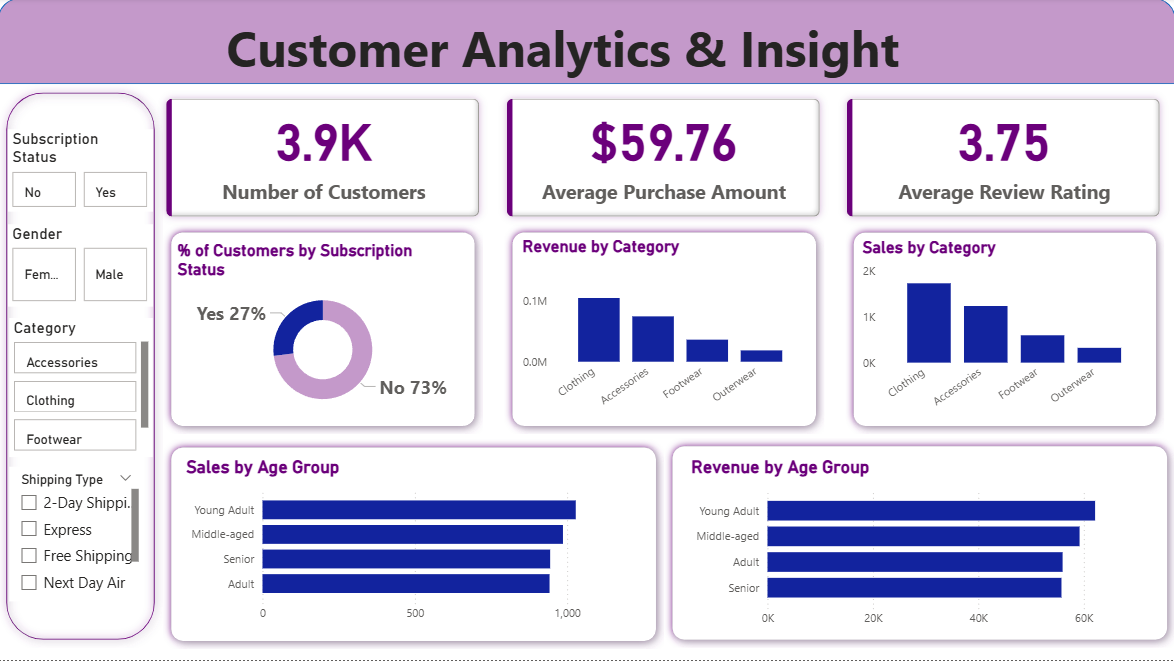
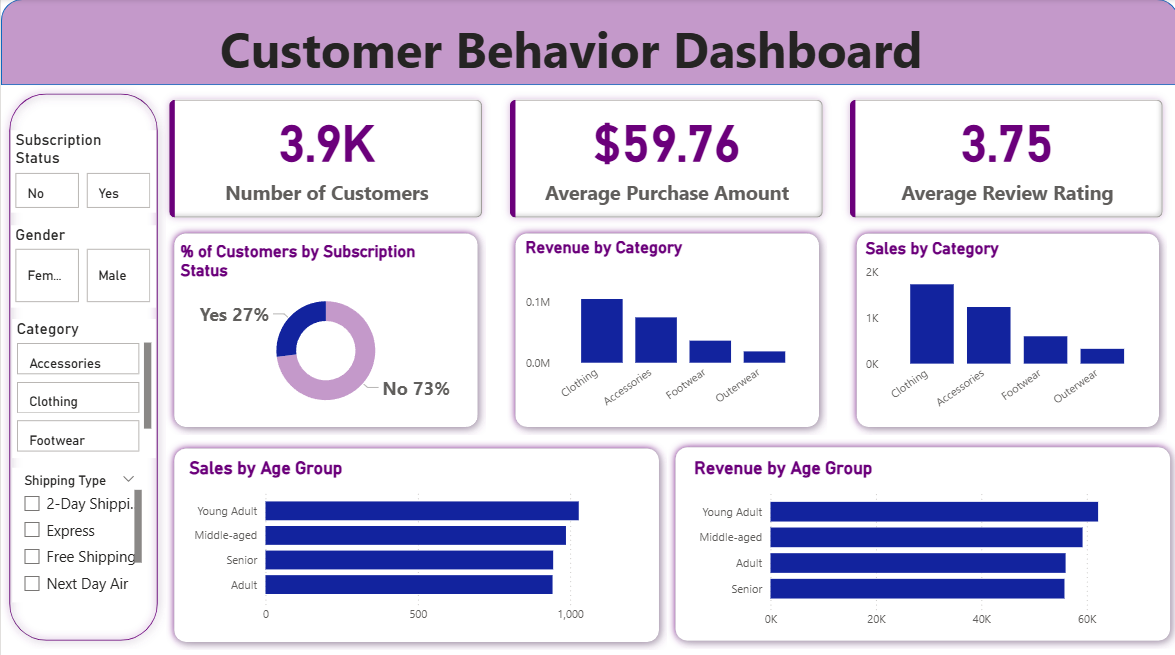
Organised

diff --git a/README.md b/README.md
@@ -1,1 +1,153 @@
-# Customer-Behaviour-Analysis
+# 📊 Consumer Insights & Analytics Dashboard (Power BI Project)
+
+## 📌 Project Overview
+
+This project focuses on analyzing **customer shopping behavior** for a retail business using a complete end-to-end data analytics workflow.
+The goal is to uncover actionable insights related to **customer segments, purchasing patterns, subscriptions, discounts, and revenue drivers** to support data-driven business decisions.
+
+The project integrates **Python, SQL, and Power BI** to transform raw consumer data into meaningful insights and visualizations.
+
+---
+
+## 🎯 Business Problem
+
+A retail company observed changing purchasing patterns across:
+
+- Customer demographics
+- Product categories
+- Sales channels (online vs. offline)
+
+The management wanted to understand:
+
+- What drives customer purchase decisions?
+- Which factors influence repeat purchases and loyalty?
+- How discounts, reviews, and shipping preferences impact revenue?
+
+📄 **Detailed problem statement:**
+➡ [Problem Statement](./problem_statement.pdf)
+
+---
+
+## 🔄 Project Workflow
+
+The project follows a structured analytics workflow from data ingestion to presentation:
+
+![Project Flow Diagram](./Images/Customer%20Analysis%20Flow%20Diagram.png)
+
+**Workflow Steps:**
+
+1. Business Problem Understanding
+2. Data Cleaning & EDA (Python)
+3. Data Analysis & Queries (SQL)
+4. Interactive Dashboard (Power BI)
+5. Report & Presentation
+6. GitHub Documentation
+
+---
+
+## 🛠 Tools & Technologies
+
+- **Python**: Pandas, NumPy (Data cleaning, feature engineering, EDA)
+- **SQL (MYSQL)**: Business queries & customer segmentation
+- **Power BI**: Interactive dashboard & storytelling
+- **GitHub**: Version control & project documentation
+
+---
+
+## 📂 Dataset Summary
+
+- **Total Records:** ~3,900 purchases
+- **Key Features:**
+  - Customer demographics (Age, Gender, Location)
+  - Purchase details (Category, Amount, Season)
+  - Shopping behavior (Discounts, Shipping Type, Reviews)
+  - Subscription & loyalty indicators
+
+---
+
+## 🔍 Key Analysis Performed
+
+### Python (EDA & Modeling)
+
+- Data cleaning & missing value handling
+- Feature engineering (age groups, purchase frequency)
+- Data validation and transformation
+- Database integration
+
+### SQL (Business Analysis)
+
+- Revenue by gender & age group
+- Subscriber vs non-subscriber comparison
+- Discount-driven product analysis
+- Customer segmentation (New, Returning, Loyal)
+- Repeat buyers and subscription behavior
+- Top products per category
+
+---
+
+## 📈 Power BI Dashboard
+
+The interactive dashboard enables stakeholders to explore insights dynamically.
+
+**Dashboard Highlights:**
+
+- Total Customers: **3.9K**
+- Average Purchase Amount: **$59.76**
+- Average Review Rating: **3.75**
+- Revenue & Sales by Category
+- Subscription distribution
+- Age group-based revenue & sales
+- Filters for gender, category, shipping type, and subscription status
+
+📊 **Dashboard Preview:**
+
+![Power BI Dashboard](./Images/PowerBI%20Dashboard.png)
+
+---
+
+## 📝 Project Report
+
+A detailed analytical report summarizing:
+
+- Data preparation steps
+- SQL insights
+- Dashboard interpretation
+- Business recommendations
+
+📄 **Download full report:**
+➡ [`Consumer Analytics and Insights.pdf`](./Consumer%20Analytics%20and%20Insights.pdf)
+
+---
+
+## 💡 Business Recommendations
+
+- Promote subscription plans with exclusive benefits
+- Target high-revenue age groups with personalized campaigns
+- Balance discount strategies to protect margins
+- Highlight top-rated and best-selling products
+- Strengthen loyalty programs for repeat buyers
+
+---
+
+## 📁 Repository Structure
+
+```text
+├── data/
+├── python/
+│   └── data_cleaning_eda.ipynb
+├── sql/
+│   └── analysis_queries.sql
+├── powerbi/
+│   └── customer_behavior_dashboard.pbix
+├── reports/
+│   ├── 📊 Problem Statement.pdf
+│   └── Consumer Analytics and Insights.pdf
+├── Customer Analysis Flow Diagram.png
+├── PowerBI Dashboard.png
+└── README.md
+```
+
+## 🚀 Conclusion
+
+This project demonstrates **how consumer shopping data can be transformed into business intelligence** using modern analytics tools.
+It highlights my ability to work across the full analytics lifecycle — from raw data to executive-ready insights.
